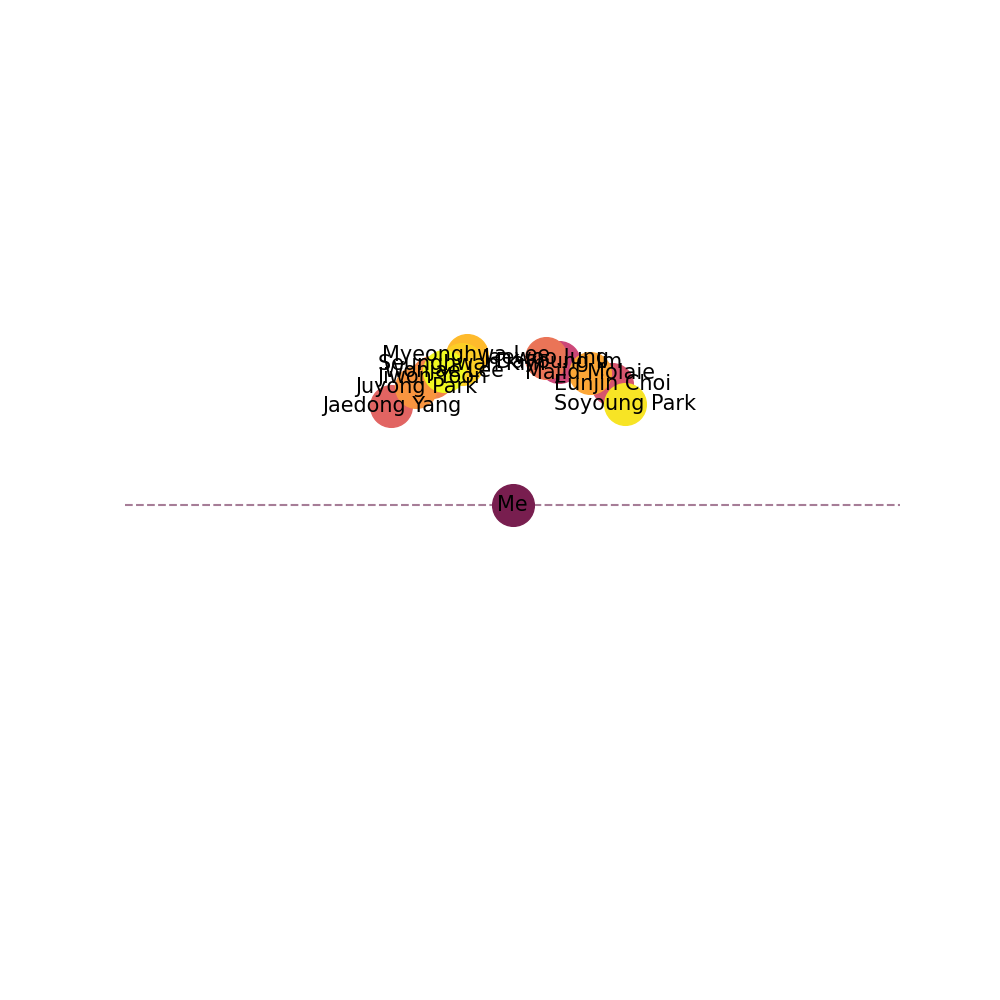
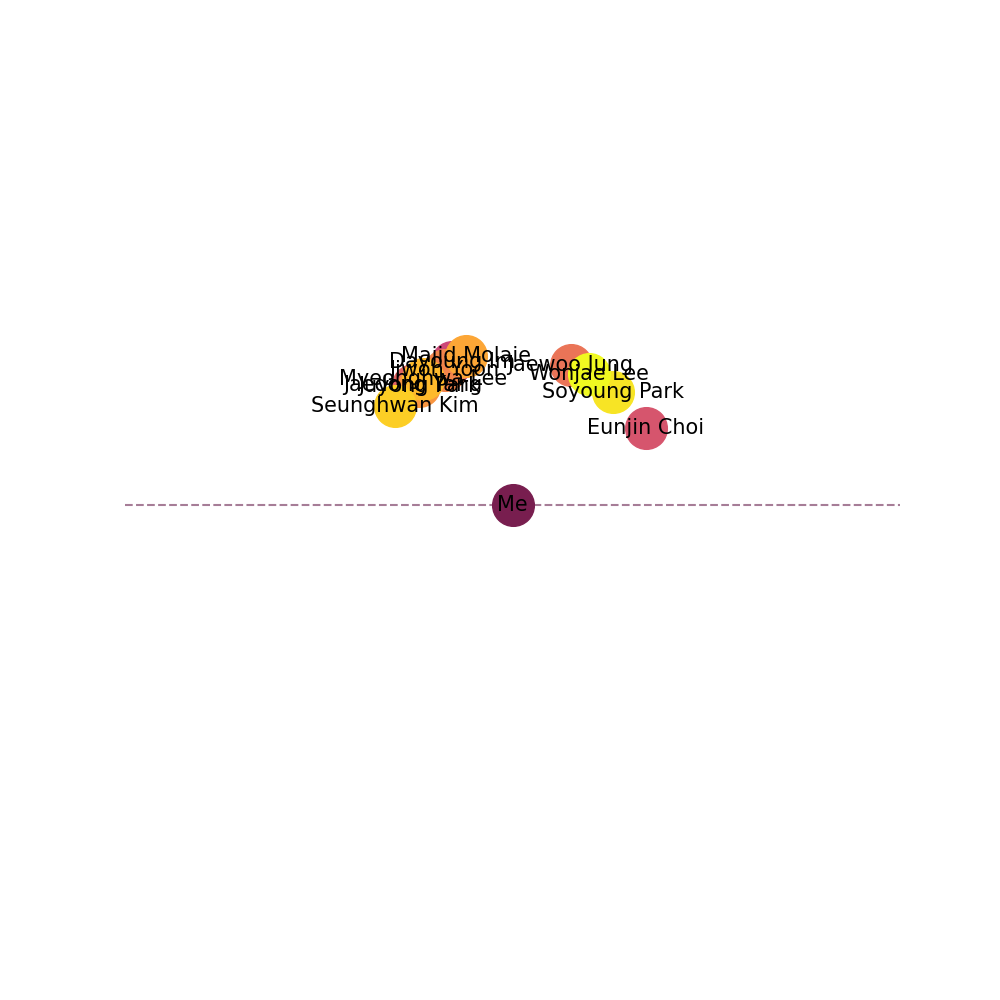
jangnan ahana jiseong

Changed region(s): [[0.31, 0.341, 0.713, 0.465]]

diff --git a/MEgo/views.py b/MEgo/views.py
@@ -17,6 +17,7 @@ from random import randint
 from .color import emo_to_hex
 from .manipulate_csv_data import export_exp_data
 from .mego_all_in_one import get_report
+from django.core.files import File
 
 # for rendering page of experience circle
 @login_required
@@ -281,6 +282,7 @@ def create_report(request):
                     things_sadness=report_data['things_sadness'],
                     things_fear=report_data['things_fear'],
                     )
+    report.save()
     if report_data['pos_people_close'] is not None:
         setattr(report, 'pos_people_close', report_data['pos_people_close'])
     if report_data['pos_people_far'] is not None:
@@ -294,7 +296,7 @@ def create_report(request):
     report.wordcloud_event.save('e_w.png',File(open('MEgo/report/'+username+'_wordcloud_event.png', 'rb')))
     report.wordcloud_thought.save('t_w.jpg',File(open('MEgo/report/'+username+'_wordcloud_thought.png', 'rb')))
     report.word_clustering.save('w_c.png',File(open('MEgo/report/'+username+'_word_clustering.png', 'rb')))
-    report.social_map.save('s_m.png',File(open('MEgo/report/'+username+'_social_map.png', 'rb')))
+    report.social_map.save('s_m.png',File(open('MEgo/report/'+username+'_ego_network.png', 'rb')))
     report.people_count.save('s_m.png', File(open('MEgo/report/'+username+'_people_count.png', 'rb')))
 
     return render(request, 'MEgo/analysis_report.html', {'report':report})
